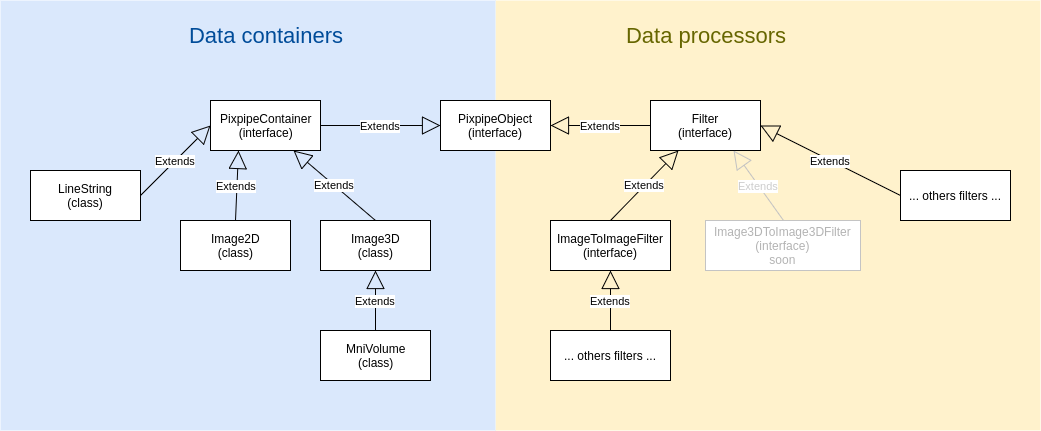
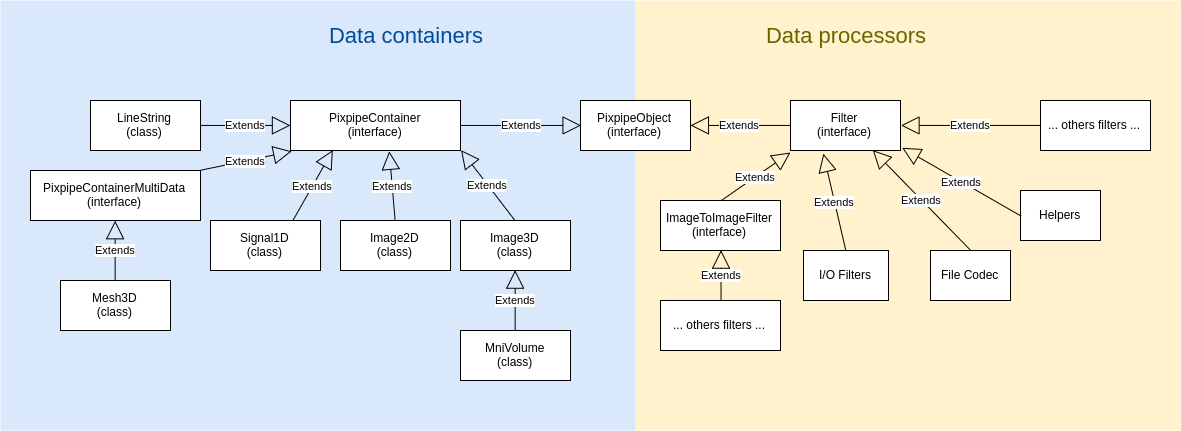
UP cookbook with new containers and all

diff --git a/cookbook/readme.md b/cookbook/readme.md
@@ -65,6 +65,17 @@ Sometimes, it's just not worth reinventing the wheel. Here are the libraries Pix
 - [delaunay](https://github.com/ironwallaby/delaunay) Delaunay triangulation
 - [jpeg-js](https://github.com/eugeneware/jpeg-js) a pure JS jpeg decoder
 - [UPNG.js](https://github.com/photopea/UPNG.js) a pure JS png decoder
+- [gl-matrix](http://glmatrix.net/) a great linear algebra lib. Its name comes from that it's compatible with WebGL vector/Matrix format (column major typed arrays)
+- [joi-browser](https://github.com/jeffbski/joi-browser) a Javascript object schema validation lib that is easy to use
+- [ndarray](https://github.com/scijs/ndarray) multidim numerical arrays, used for some computations only (FFT), but not as a native data storage in Pixpipe
+- [nifti-reader-js](https://github.com/rii-mango/NIFTI-Reader-JS) an efficient NIfTI file parser
+
+In order to make Pixpipejs the way it is, we have developped a few modules that are integrated at bundling time but that can also be used as stand-alone, without Pixpipe. They are all hosted on the [Pixpipe Github organization](https://github.com/Pixpipe):
+- [codecutils](https://github.com/Pixpipe/codecutils) provides some static functions to encode or decode data, especially extract numerical array from `ArrayBuffer` without constraint, convert to unicode strings, etc.
+- [pixbincodec](https://github.com/Pixpipe/pixbincodec) to read and write into the native Pixpipe format: PixBin files. Although this lib create or reads from `ArrayBuffer`, the exampled provided show how to read from or write to disk depending if you are using JS in a browser of in Node.
+- [mniobjparser](https://github.com/Pixpipe/mniobjparser) to parse the 3D mesh/surface files output of CIVET, called MNI OBJ
+- [qeegmodfile](https://github.com/Pixpipe/qeegmodfile) a EEG file parser for the MOD format used in the Canada-China-Cuba consortium
+- [edfdecoder](https://github.com/Pixpipe/edfdecoder) a EDF (European Data Format) file parser, especially used in EEG
 
 
 # Sample data
@@ -118,8 +129,30 @@ This object is motivated by the medical dataset used internally in the [Montreal
 
 
 ### Signal1D
-*container*
-Like `Image2D` stores a 2D signal, the `Signal1D` is intended to store single dimensional signals.
+*container*  
+Like `Image2D` stores a 2D signal, the `Signal1D` is intended to store single dimensional signals, for example intensities of an EEG. There are special filters associated with this container, for example to perform Fourier Transform.
+
+
+### LineString
+*container*  
+A `LineString` is a vectorial representation of a polyline in a space of a given number of dimensions. In 2D by default, this can be changed using the method `.setNod(Number)` to 3D or even more, as long as it makes sense for the application. A line string can be closed whn calling the method `.close()` so that it becomes a polygon. Points can be added (to the end) or popped (from the end).  
+The internal data structure of a LineString is a `Float32Array` and If a line string lays in a 2D, the internal data will be represented as `[x1, y1, x2, y2, x3, y3, ...]`. This is very convenient when it comes to encode or compresse the data (e.g. for storing in a file) but the user should not have to deal directly with this structure and should use the dedicated methods to interact with a LineString.
+
+
+### PixpipeContainerMultiData
+*container interface*  
+A `PixpipeContainerMultiData` object does not exist as is, this is an interface to data-structures which need to encode multiple numerical buffers, possibly of different types, each of them having a name (or ID, as you prefer to call it).  
+For example, say you need a datastructure that needs 1D measurement (like a `Signal1D`) but also need to associate an integer for each of these measurement (for example a class, if you want to make clusters), then you will most likely need a `Float32Array` for measurement and a `Uint8Array` for classifing. A type that inherits `PixpipeContainerMultiData` will serve this purpose and all the methods that are already there will help you save time.
+
+### Mesh3D
+*container*  
+The `Mesh3D` class is a good example of usage of `PixpipeContainerMultiData`. An instance of `Mesh3D` represents a mesh, in 3D, aka a surface. To serve this purpose, it stores **four** types of data:
+- the vertex positions, as an array of `[x0, y0, z0, x1, y1, z1, ...]` (`Float32Array`)
+- the list of each each vertex index grouped by 3 (if faces are triangles) such as `[Va0, Va1, Va2, Vb0, Vb1, Vb2, ...]` where `a` is the first triangle, `b` is the second...  (`Uint32Array`)
+- the polygons/triangles' normal vectors `[x0, y0, z0, x1, y1, z1, ...]`. Even though those could be computed with a cross product using a *right hand* rule, it can be convenient the list them in case all the faces don't follow this rule. (`Float32Array`)
+- the vertex colors as a list of RGBa such as `[V0R, V0G, V0G, V0a, V1R, V1G, V1B, V1a, ...]` (`Uint8Array`)
+Each of these structure can be set from dedicated methods and you should not have to deal with low level private arrays.
+
 
 ### Filter
 *processor interface*  
@@ -135,6 +168,26 @@ If you happen to create your own custom filter, **always** add some input verifi
 *processor interface*  
 This extends `Filter` but still does not process anything. This is again an interface for any custom filter that would input one or multiple `Image2D` and output one `Image2D` (actually, this is not strictly required, it could output anything else, like statistics for examples).  
 `ImageToImageFilter` provides a method to check if all the input `Image2D` have the same size: `.hasSameSizeInput()` and if they have the same number of components per pixel: `.hasSameNcppInput()`. These two methods should be called at the beginning of the `._run()` method, but if your custom filter happens *not* to need these verifications, then simply don't call them.  
+
+### I/O Filters
+*file system*  
+An `I/O Filter` is not a class, neither an interface, it is more a way to label some filters that are dedicated to opening files from the file system or from *AJAX* request and output a raw `ArrayBuffer` of the `String` contained by a given file. In addition to outputin some data that can then be parsed, they also perform `md5` checksum computation to give you some material in case you would like to integrate file integrity verification into your app.  
+Some files are compressed using *zlib*, they usually have the extension `.gz` in addition of their original extension: e.g. *myMRI.nii.gz*. IO filters that load files from local filesystem of through an AJAX request will test if a file is compressed and if so, will decompress it in memory so that the data to output is ready to be parsed. This step is performed by [Pako](https://github.com/nodeca/pako), a very fast *inflate/deflate* zli inplementation in pure Javascript.  
+Other filters are in IO, such as a filter to write an `Image2D` into an *HTML5* canvas (with data scaling if your image goes beyond 0-255), a filter to trigger the download of an `ArrayBuffer` in a web browser or a filter to read an image from local filesystem using the *HTML5* API and then benefit from the low level performance from the web browser (rather than relying on pure Javascript parsing of *jpg* or *png*, which is also possible but a bit slower. )  
+Such filters are in the `src/io` folder of Pixpipejs.
+
+
+### File Codecs
+*give some sense to these blobs*  
+Once again a `File Codec` is not a class in Pixpipejs, but rather a label given to some filter that are located in the folder `src/decoder`. Most of those filters are a singles task to decode a specific file format, and a single on will actually encode data to output a file: *PixBinEncoder*, for the native Pixpipejs format.  
+Most of the decoder will take an `ArrayBuffer` as input and few other will take a large `String` (for text based file format). in any case, the input of the decoders is usually the output of a *I/O* filter after having read a file from the filesystem or through an *AJAX* request. Those decoder will digest the data and output an object of a Pixpipe type, for example an `Image2D`, an `Image3D`, a `Mesh3D`, etc. The purpose is that no matter the kind of file as input, files of the same modality will end up in the same kind of container.  
+For example, a *png* image and a *jpg* image are encoded in very different ways, the first uses a *zlib* lossless compression while the other uses a *discret cosine transform* followed by a quntization making it a lossy compression. One is not streamable, the other is, magic numbers are of course not the same, etc. Even with all these diferences, they are still representing the same modality: an two dimensional image. For this reason, both kinds will end up in a `Image2D` Pixpipe container, and thus will have the same query methods and filter compatibility.
+
+
+### Helpers
+*When data still hardly make sense*  
+Helpers is, again, a label to the class from `src/helpers`. They are tools to help visualize the data that do not easy to interpret. For example one of the main helper is `Colormap`, to create colorful gradients that then can be applied to other kinds of data.  
+There are not a lot of them and they are usually created as long as new kinds of data are integrated into Pixpipejs and we realize that they can be interpreted easily with a little helper.
 
 
 # Building Pixpipe

diff --git a/cookbook/metadata.md b/cookbook/metadata.md
@@ -1,6 +1,5 @@
 # Metadata object
-The metadata format adopted in `Image3DAlt` appears to be generic enough to be used in Image2D. The following description is a minimalist list. To this list should be added any custom metadata relevant to one's application.  
-Here is how it looks like:
+The metadata format adopted in `Image3DAlt` can seem a bit complex, this is why it can be nice to break it down a little. Here is how it looks like:
 
 ```javascript
 var metadata = {
